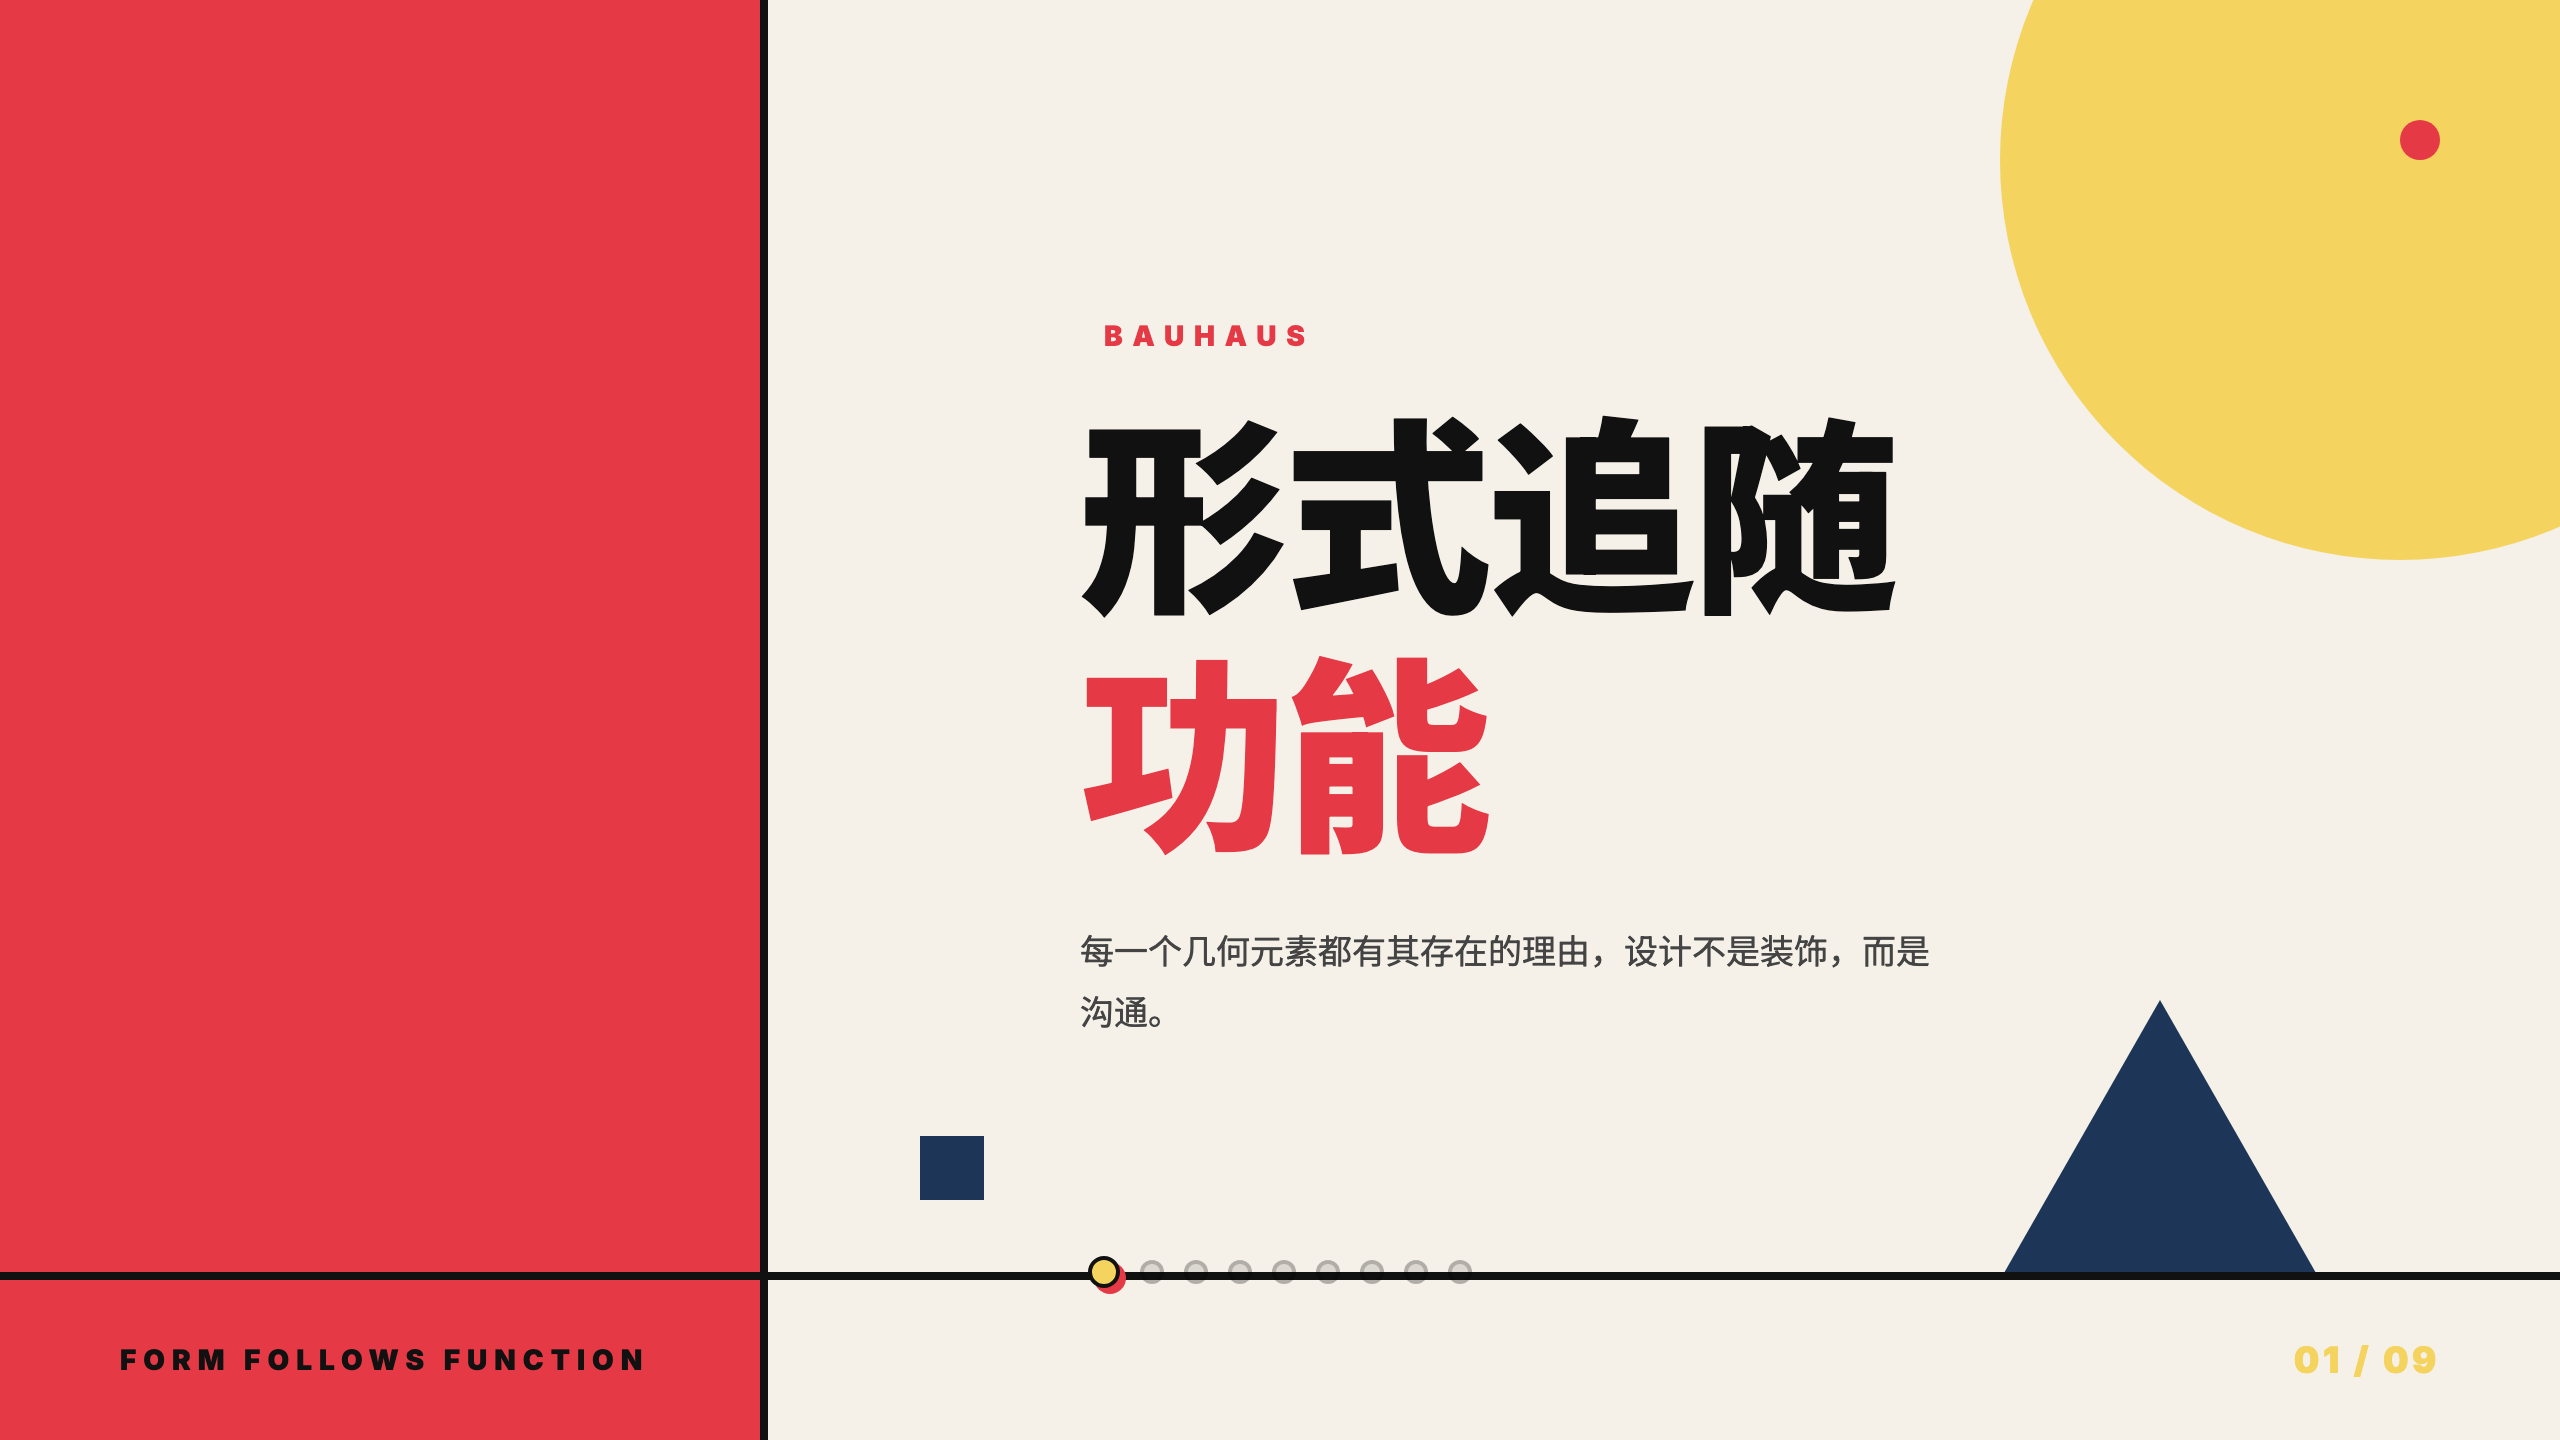
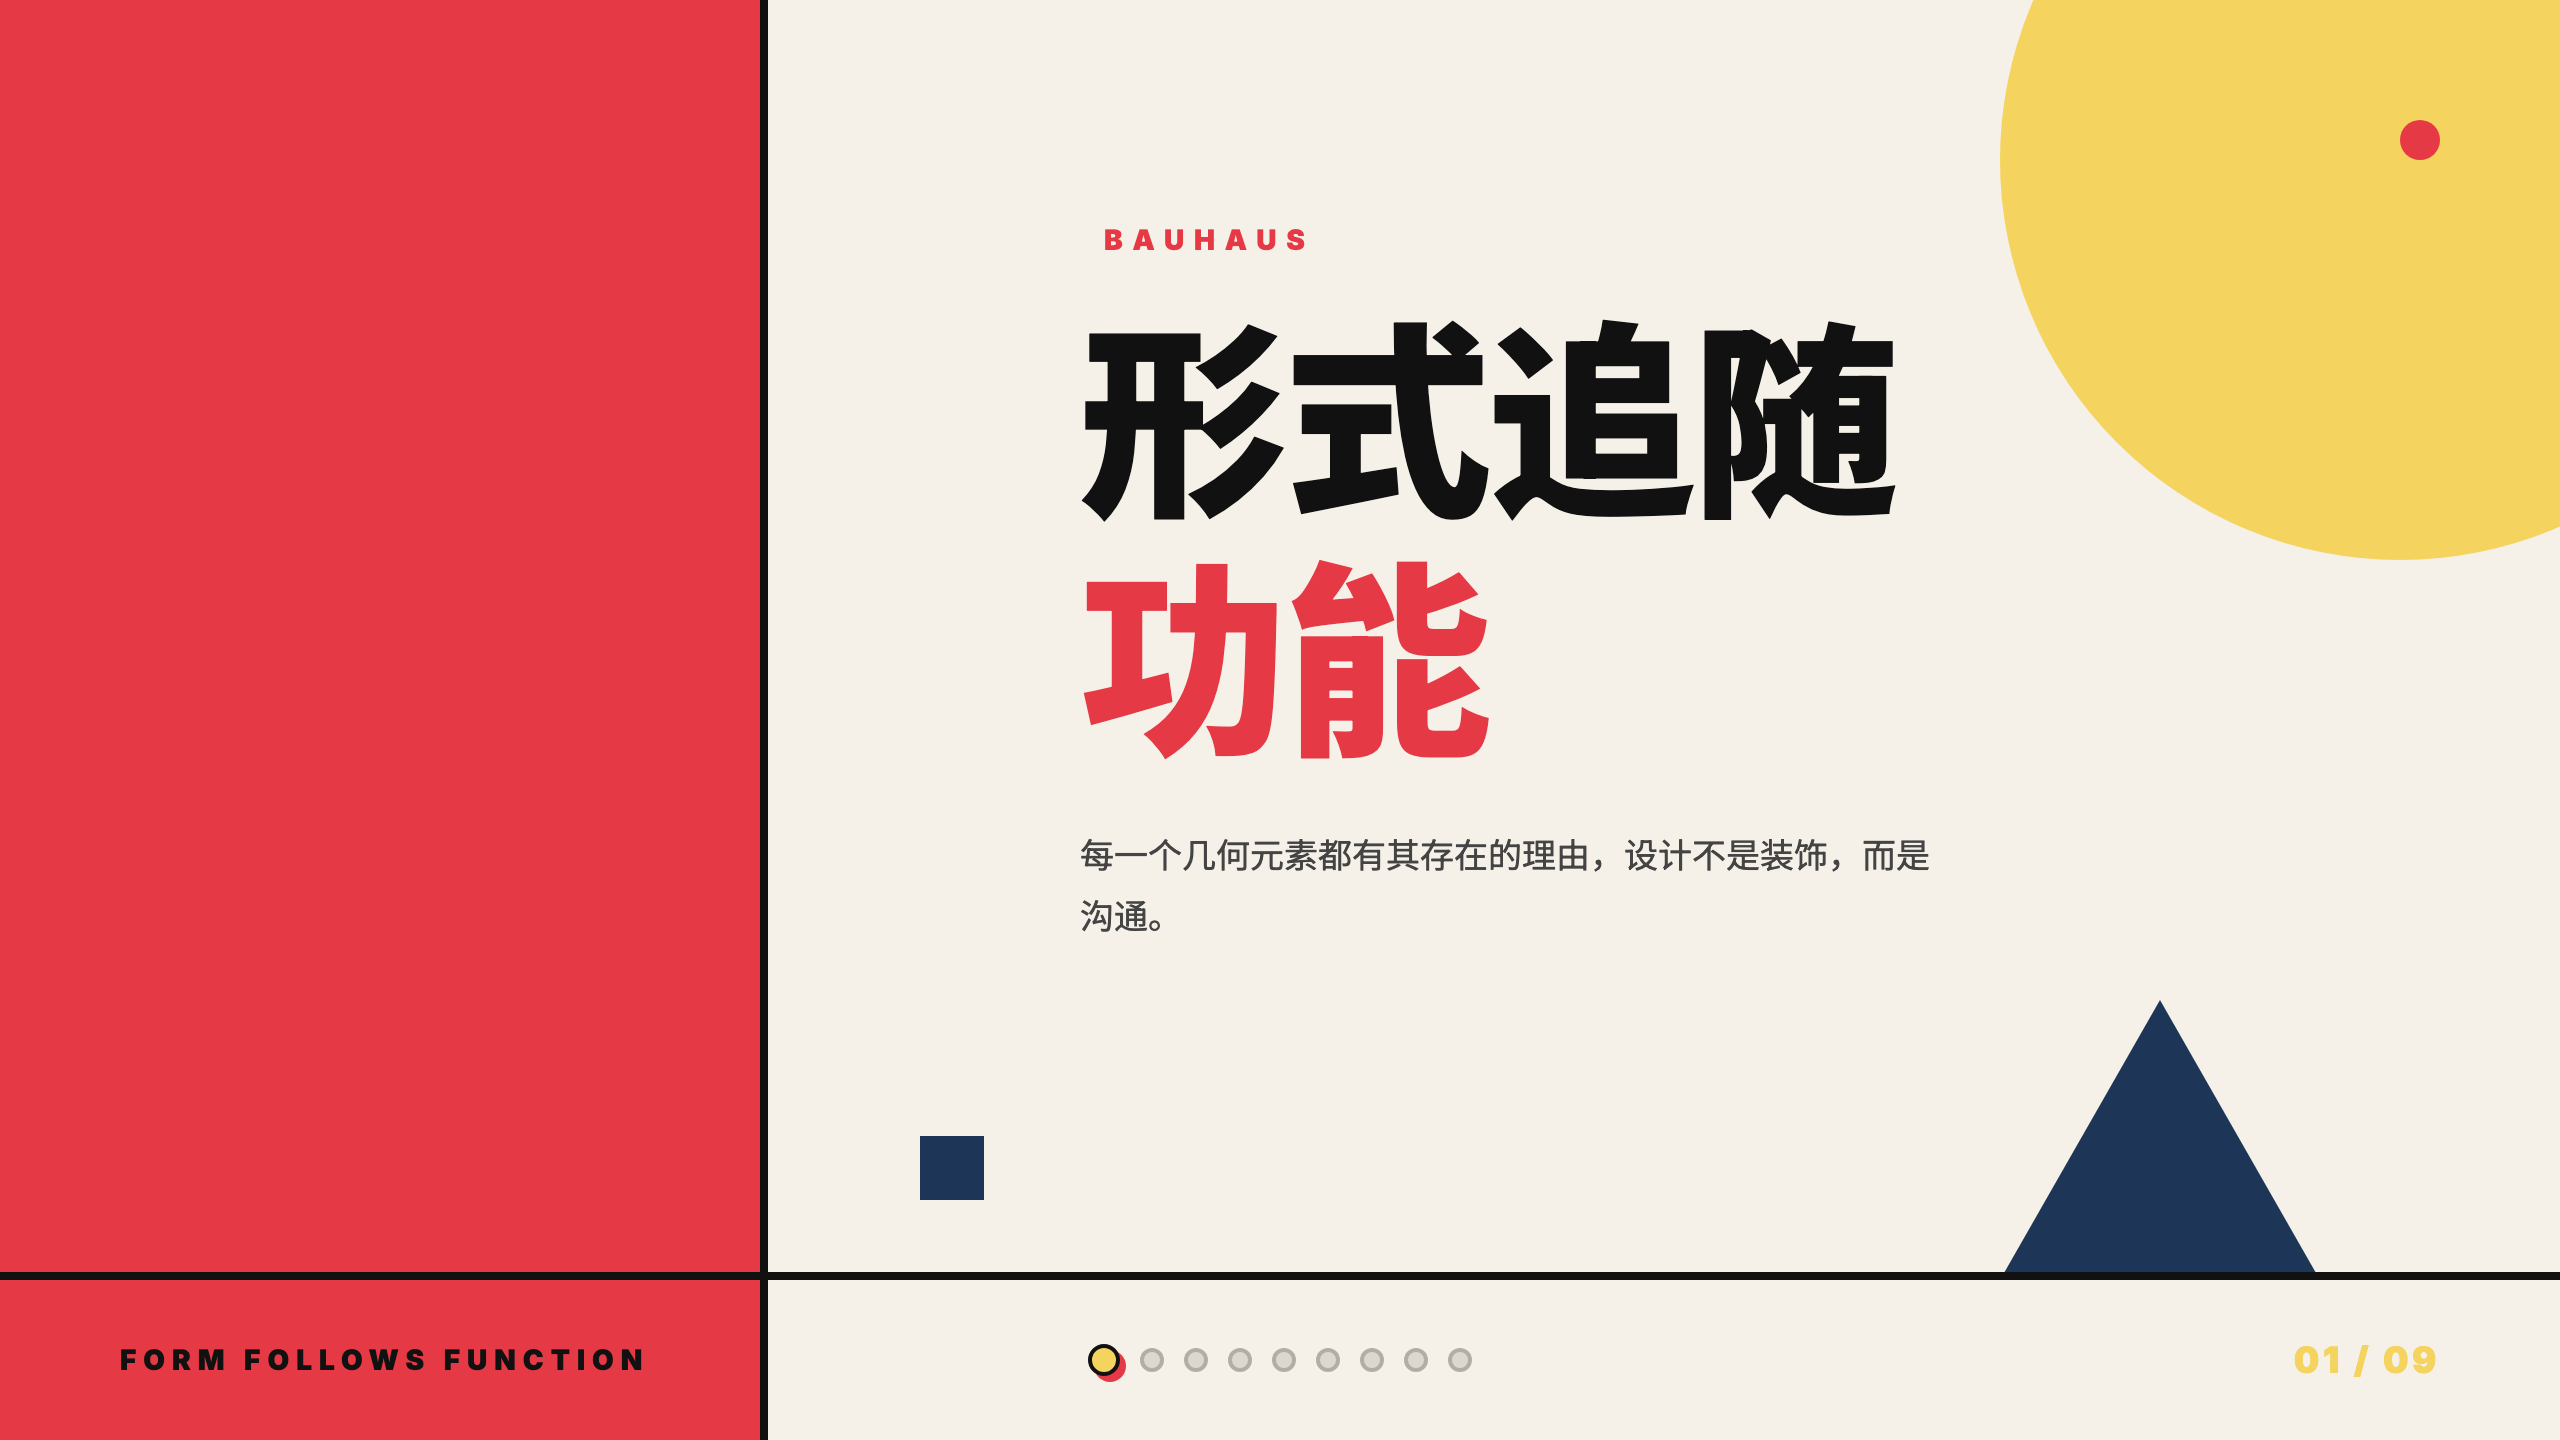
fix(22-bauhaus): progress dots no longer overlap card bottom borders (strip moved inside bar via top:50%, +96px slide padding); remove pointer-events:none that silently disabled click-to-jump; correct DESIGN.md progress_bar spec (circles not lines); AGENT_GUIDE: add two new anti-patterns

diff --git a/templates/22-bauhaus/example.html b/templates/22-bauhaus/example.html
@@ -46,13 +46,14 @@
   p, li { font-family: var(--font-cn); font-size: 16px; color: #333; line-height: 1.8; }
 
   /* Bottom bar */
+  .slide { padding-bottom: 96px !important; }
   .bottom-bar { position: absolute; bottom: 0; left: 0; right: 0; height: 60px; z-index: 5; display: flex; align-items: center; justify-content: space-between; padding: 0 60px; }
   .bottom-bar .bar-label { font-family: var(--font-display); font-size: 14px; font-weight: 900; letter-spacing: 0.25em; text-transform: uppercase; color: var(--black); min-width: 200px; }
   .bottom-bar .bar-page { font-family: var(--font-display); font-size: 18px; font-weight: 900; letter-spacing: 0.1em; color: var(--yellow); }
   .title-slide .bottom-bar { height: 80px; }
 
   /* Progress strip */
-  .progress-strip { position: absolute; top: -12px; left: 60px; right: 60px; height: 16px; display: flex; align-items: center; justify-content: center; gap: 0; z-index: 6; pointer-events: none; }
+  .progress-strip { position: absolute; top: 50%; transform: translateY(-50%); left: 60px; right: 60px; height: 16px; display: flex; align-items: center; justify-content: center; gap: 0; z-index: 6; }
   .progress-strip .seg { width: 12px; height: 12px; border-radius: 50%; background: rgba(0,0,0,0.1); border: 2px solid rgba(0,0,0,0.2); margin: 0 5px; transition: all 0.25s;   cursor: pointer;
   transition: opacity 0.2s;
 }

diff --git a/templates/22-bauhaus/DESIGN.md b/templates/22-bauhaus/DESIGN.md
@@ -44,17 +44,20 @@ border:
   color: "#111111"
 
 progress_bar:
-  height: "56px"
+  height: "60px"
   background: "transparent"
   border_top: "none"
+  position: "strip inside the bar — top: 50%; transform: translateY(-50%); NOT negative top (dots would collide with card bottom borders)"
+  slide_padding_bottom: "96px"
   segments:
-    shape: "line"
-    size: "6px"
+    shape: "circle"
+    size: "12px (current 16px)"
     gap: "5px"
-    section_gap: "28px"
-    future: "light fill; 1px solid rgba(245,241,232,0.3); w=56px, h=6px"
-    past: "medium fill; rgba(245,241,232,0.7)"
-    current: "var(--yellow) fill; var(--yellow); shadow: 0 0 8px rgba(244,211,94,0.5)"
+    section_gap: "5px (uniform)"
+    future: "rgba(0,0,0,0.1) fill; 2px solid rgba(0,0,0,0.2)"
+    past: "var(--black) fill; var(--black) border"
+    current: "var(--yellow) fill; var(--black) border; 3px 3px 0 var(--red) offset shadow (Bauhaus signature)"
+  clickable: "yes — each segment jumps to its page; never set pointer-events:none"
 
 ---
 

diff --git a/AGENT_GUIDE.md b/AGENT_GUIDE.md
@@ -439,6 +439,8 @@ updateUI(current);
 
 - Do NOT show two page numbers (e.g., big center number + right-side counter) — pick one location
 - Do NOT let the progress strip blend into a border line (2px line on top of 1px border = invisible)
+- Do NOT let the progress strip collide with content above it. A negative `top` lifts the strip INTO the content area — if cards/blocks/framed borders extend near the bottom, the dots will sit on top of a card border. Verify by screenshotting a content page, not just the cover. Safe pattern: keep the strip inside the bar (`top: 50%; transform: translateY(-50%)`) and reserve space with `.slide { padding-bottom: 96px !important; }`.
+- Do NOT put `pointer-events: none` on `.progress-strip` — it silently kills click-to-jump.
 - Do NOT use opacity below 0.12 for future segments — they disappear
 - Do NOT forget `padding-bottom` on `.slide` — content will overlap the progress bar
 - Do NOT keep old `.footer` elements alongside `.progress-bar` — duplicate info
